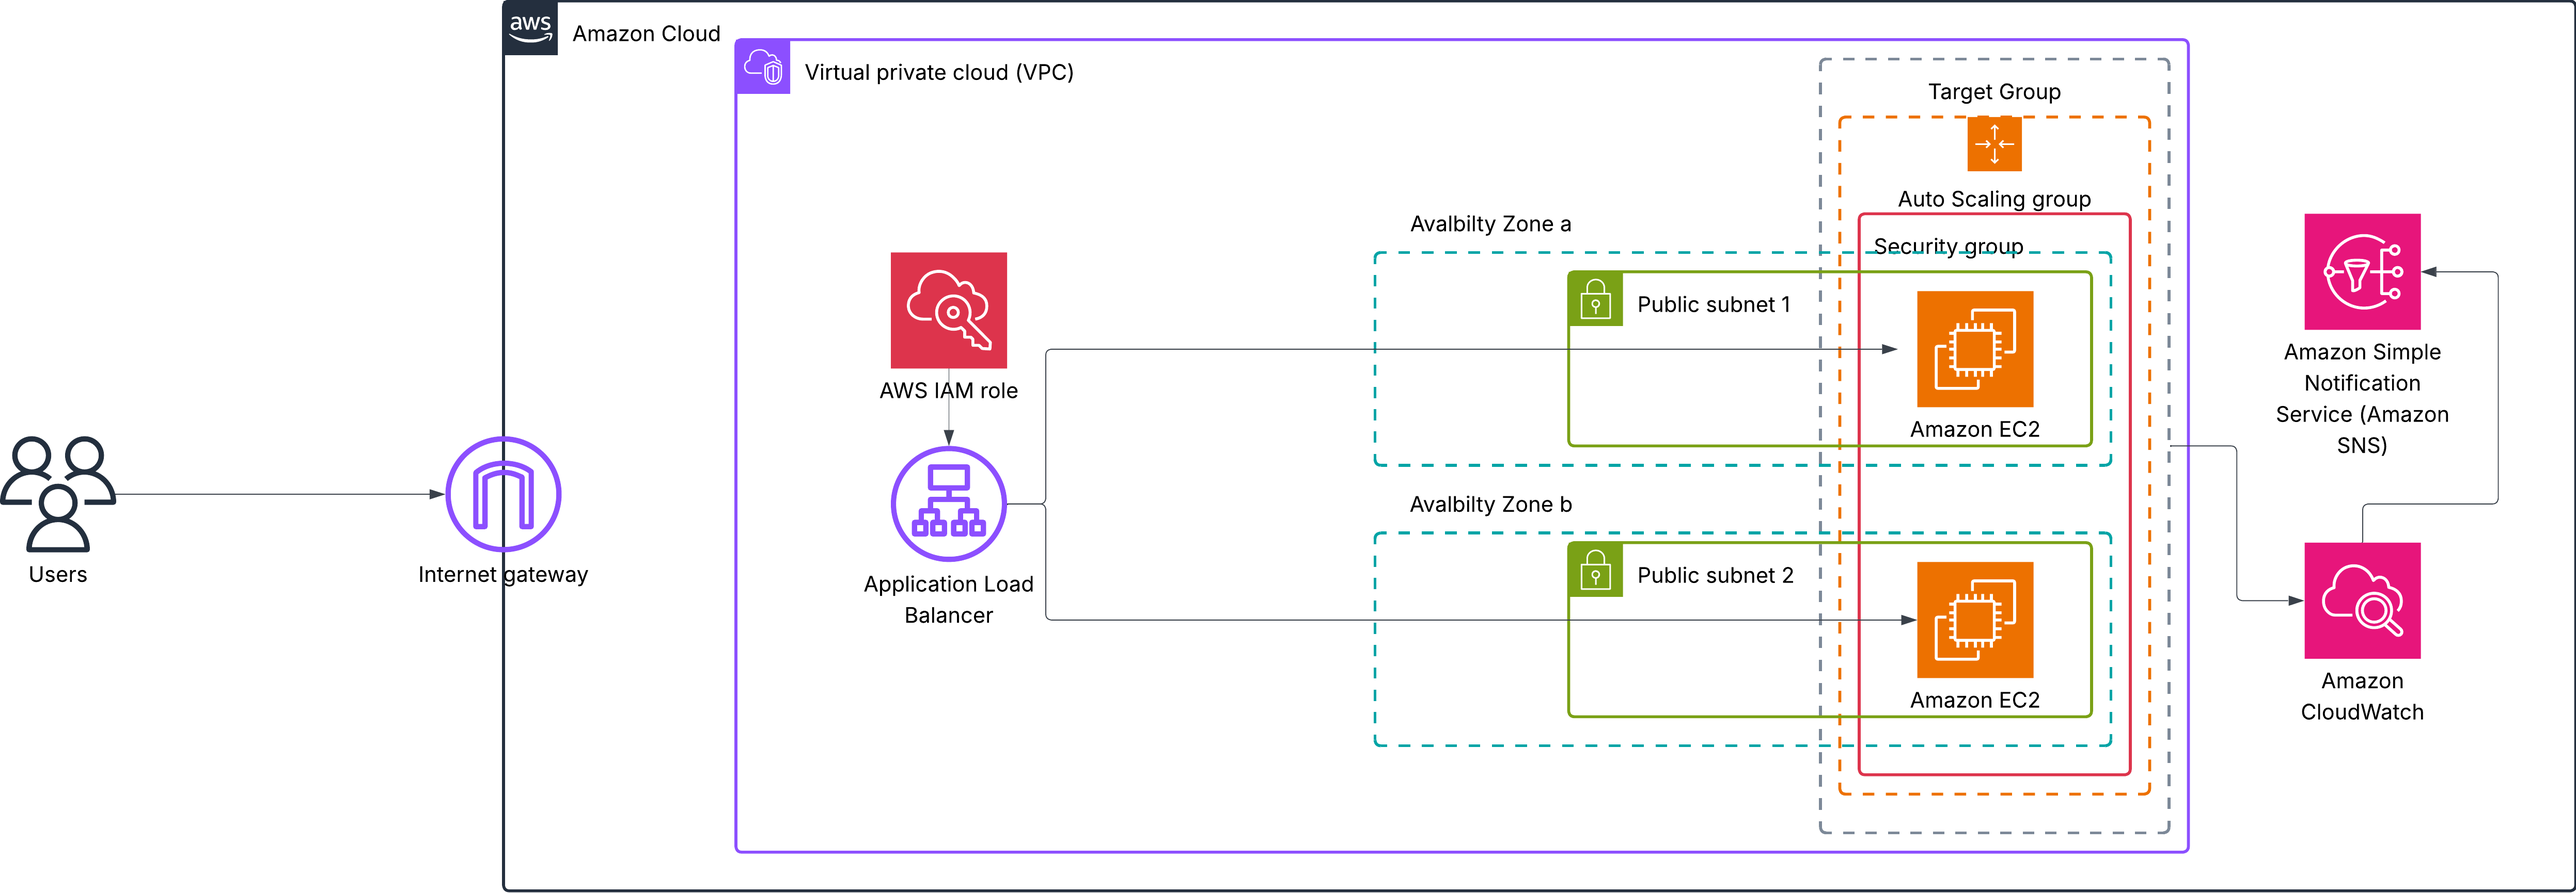
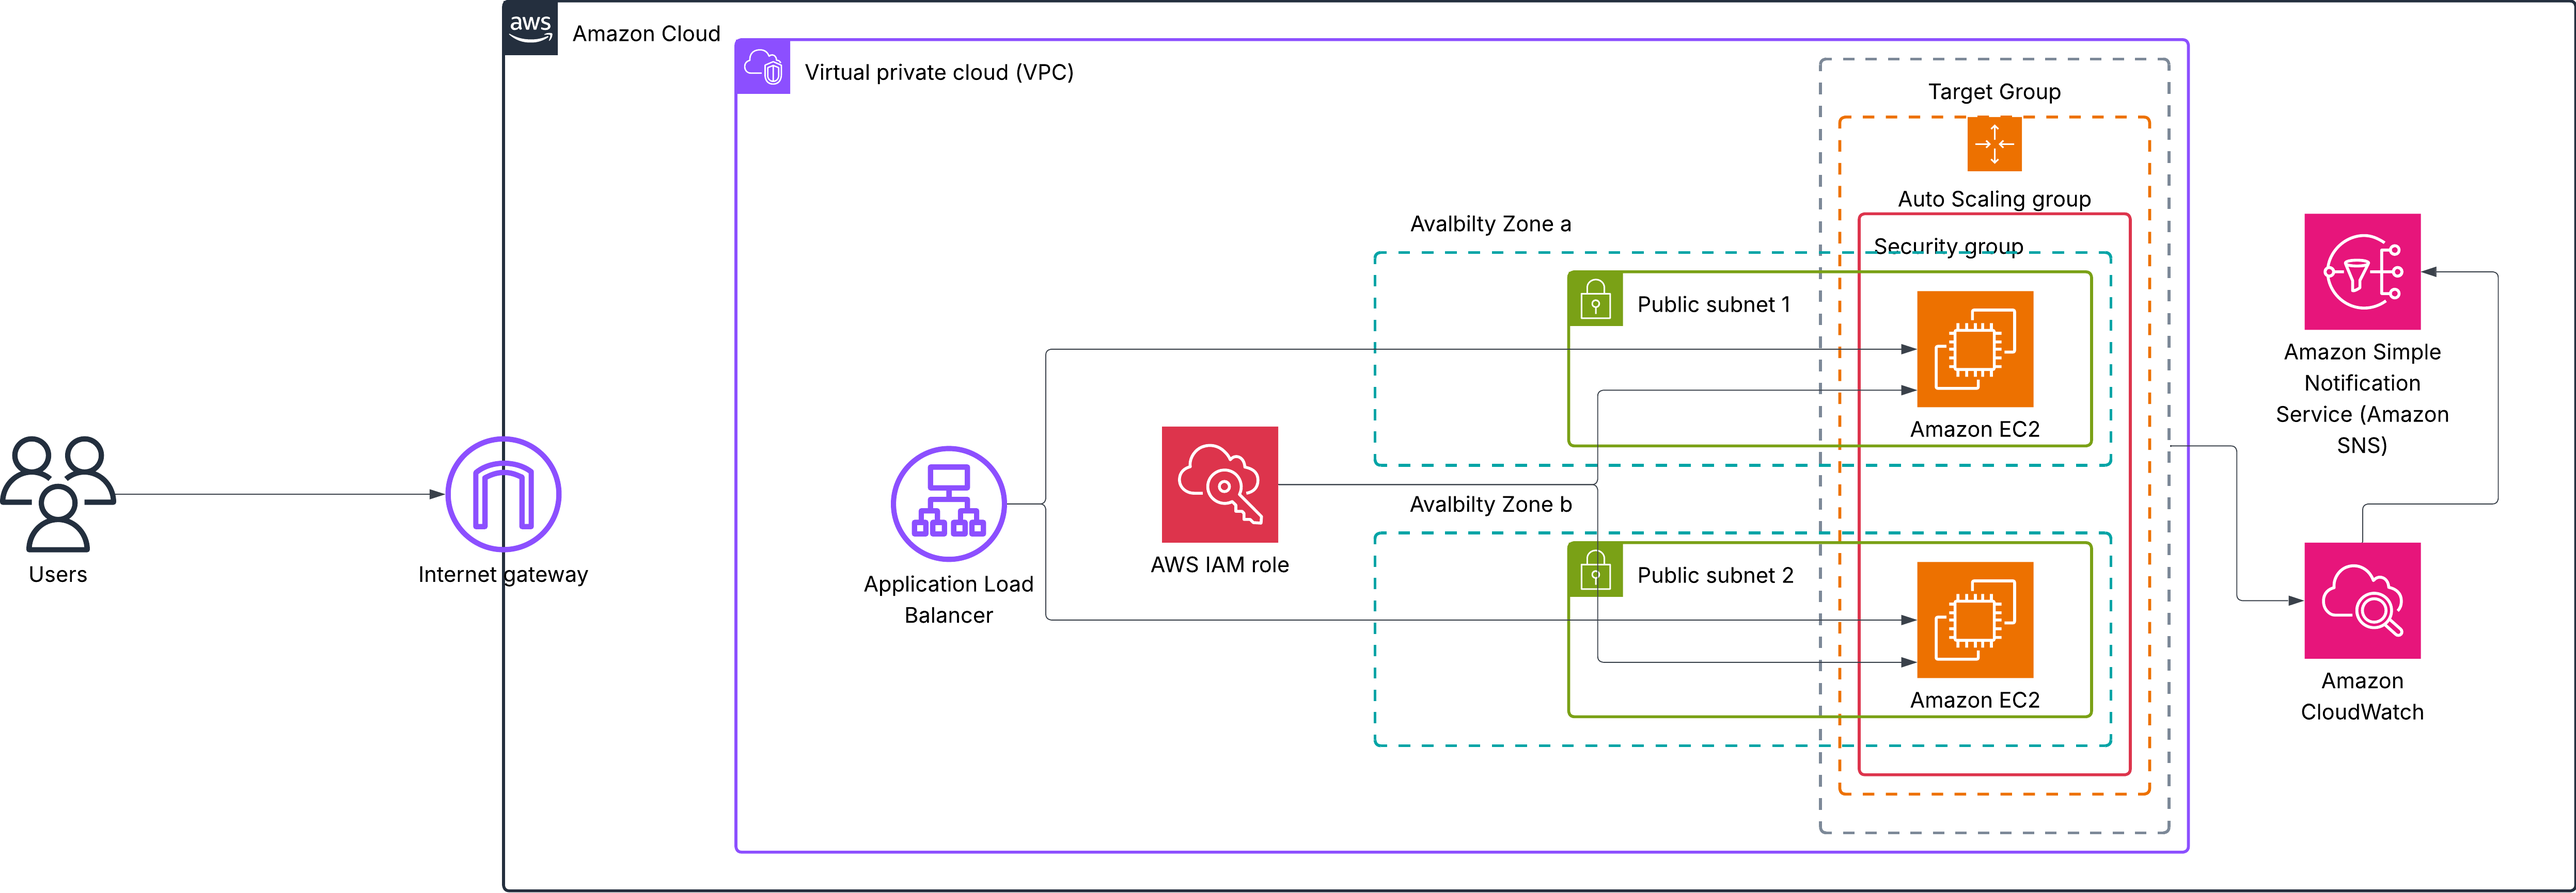
update Readme

Changed region(s): [[0.435, 0.4679, 0.4972, 0.6551], [0.3418, 0.2808, 0.404, 0.4679]]

diff --git a/readme.md b/readme.md
@@ -6,7 +6,7 @@ This project demonstrates the deployment of a scalable and highly available web 
 ## Architecture Diagram
 The following diagram illustrates the cloud architecture for this project.
 
-<img width="4988" height="1731" alt="Blank diagram - Page 1 (2)" src="https://github.com/user-attachments/assets/b8653ea6-80ad-4676-88bc-eb8fced2b2b7" />
+<img width="4988" height="1731" alt="Architecture Diagram" src="https://github.com/user-attachments/assets/cbc0f071-d5ca-4fa1-9a1b-ff3e2a34462b" />
 
 This diagram shows the flow of user traffic through the Application Load Balancer to EC2 instances managed by an Auto Scaling Group, with monitoring provided by CloudWatch and SNS.
 
@@ -43,6 +43,8 @@ The core of this project is an Auto Scaling Group of EC2 instances running a sim
 
 - Amazon VPC (Virtual Private Cloud): Provides a logically isolated section of the AWS Cloud to launch resources.
  
+- IAM (Identity and Access Management): An IAM Role was attached to the EC2 instances to provide secure, role-based access to other AWS services without needing to store credentials on the instance.
+
 - IAM (Identity and Access Management): An IAM Role was attached to the EC2 instances to provide secure, role-based access to other AWS services without needing to store credentials on the instance.
 
 ## Deployment Steps
